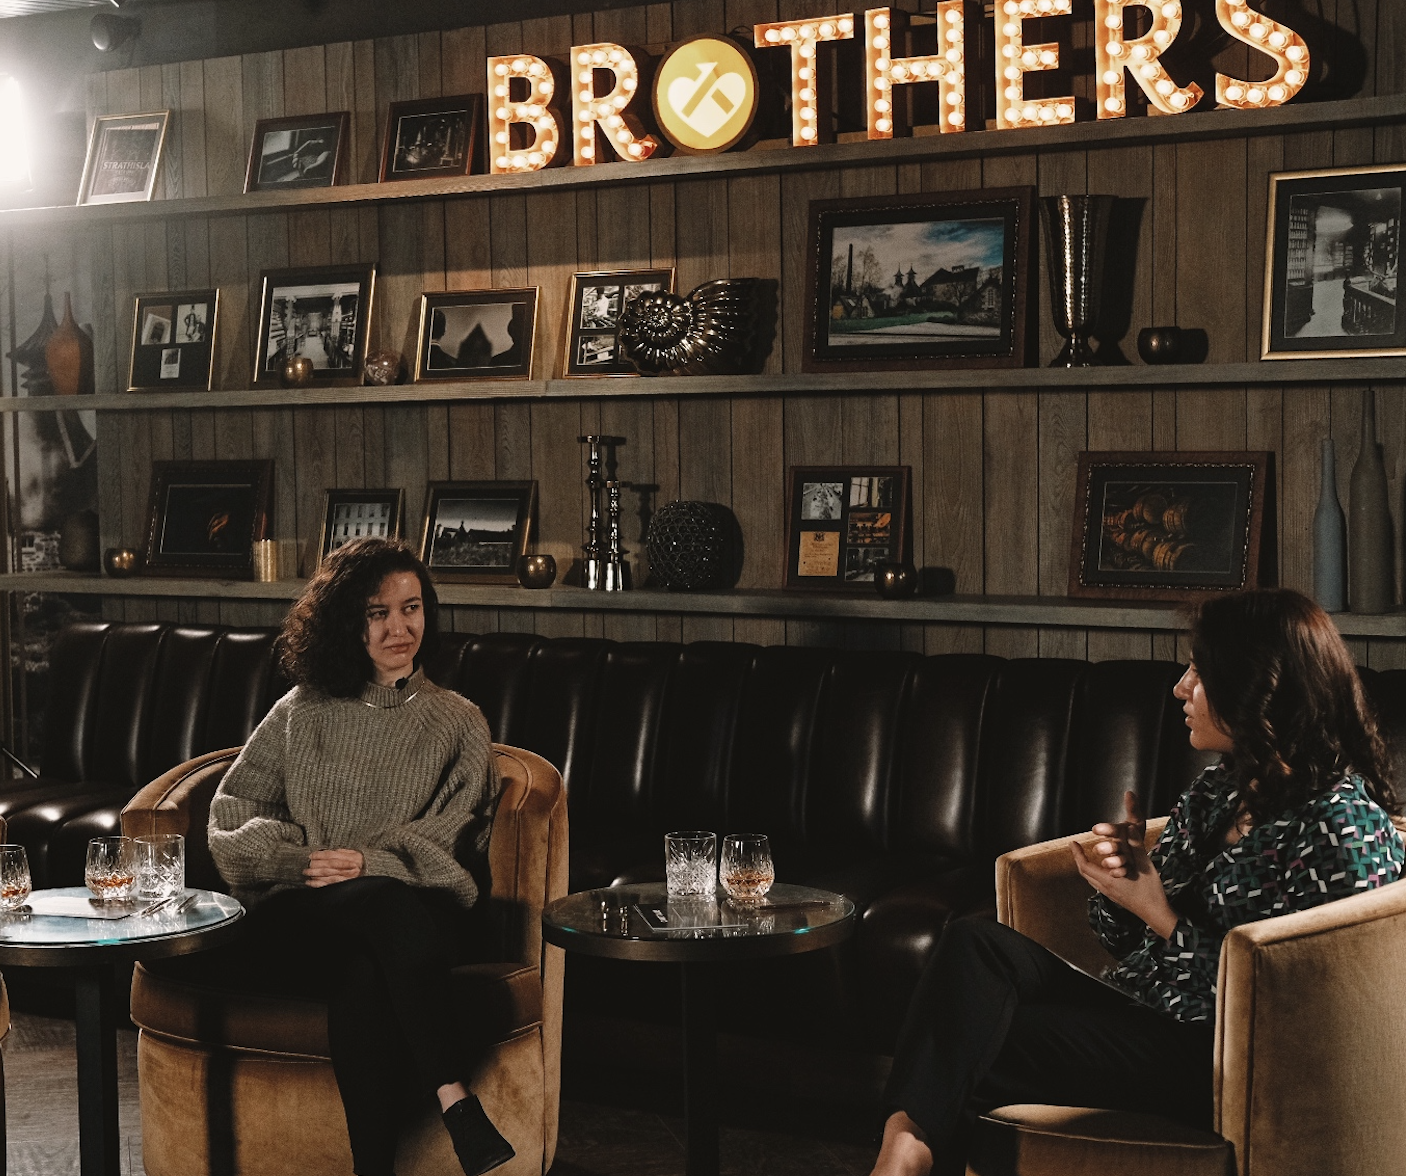
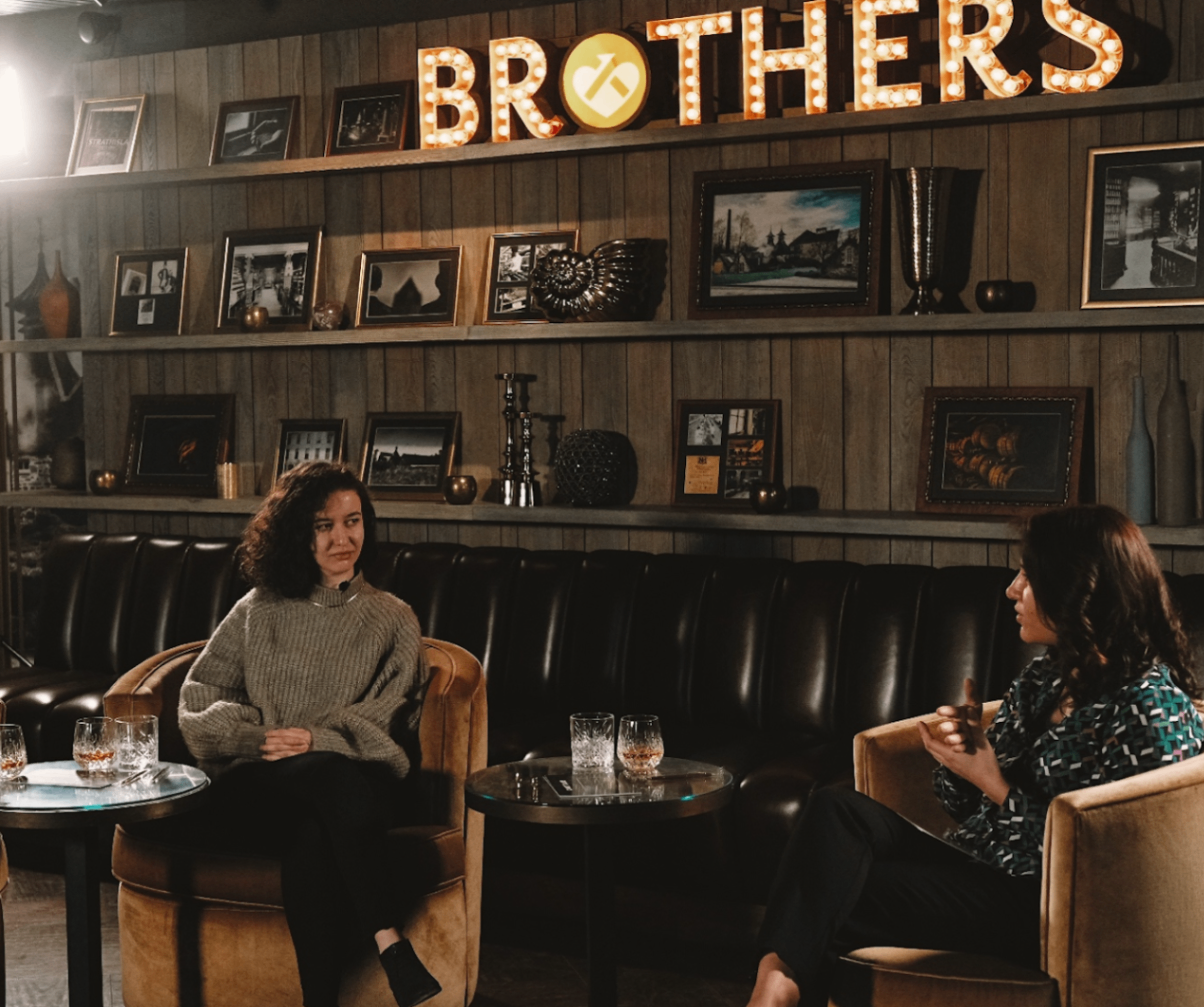
İletişim resim küçültüldü

diff --git a/src/data/content.ts b/src/data/content.ts
@@ -456,7 +456,7 @@ export const siteContent = {
           url: "https://vogue.com.tr/sanat/shiva-zahed-istanbul-iran-cagdas-sanatini-tanitmak-adina-ideal-bir-sehir",
         },
         {
-          client: "Studio Barbare",
+          client: "STUDIO BARBARE",
           title: "“Works Concealed in the Vineyard House”",
           publication: "Artful Living",
           url: "https://www.artfulliving.com.tr/sanat/bagevine-gizlenen-eserler-i-35041",
@@ -507,7 +507,7 @@ export const siteContent = {
           url: "https://www.basedistanbul.com/mekanin-hafizasini-belgelemek-mumkun-mu?utm_source=chatgpt.com",
         },
         {
-          publication: "Unlimited",
+          publication: "UNLIMITED",
           title: "“On Sustainable Art and Production: Open Studio”",
           url: "https://www.unlimitedrag.com/post/sürdürülebilir-sanata-ve-üretime-dair-açık-atölye",
         },
@@ -522,7 +522,7 @@ export const siteContent = {
           url: "https://aposto.com/s/derinlikte-sakli-olan-uzerine-arkhe-karanlik",
         },
         {
-          publication: "Artful Living",
+          publication: "ARTFUL LIVING",
           title: "“A Traumatic Yet Equally Pleasure-Filled Threshold: ‘The World Ascends Through Pleasure’”",
           url: "https://www.artfulliving.com.tr/sanat/travmatik-ve-bir-o-kadar-haz-dolu-bir-esik-haz-ile-goklenir-dunya-i-34399",
         },
